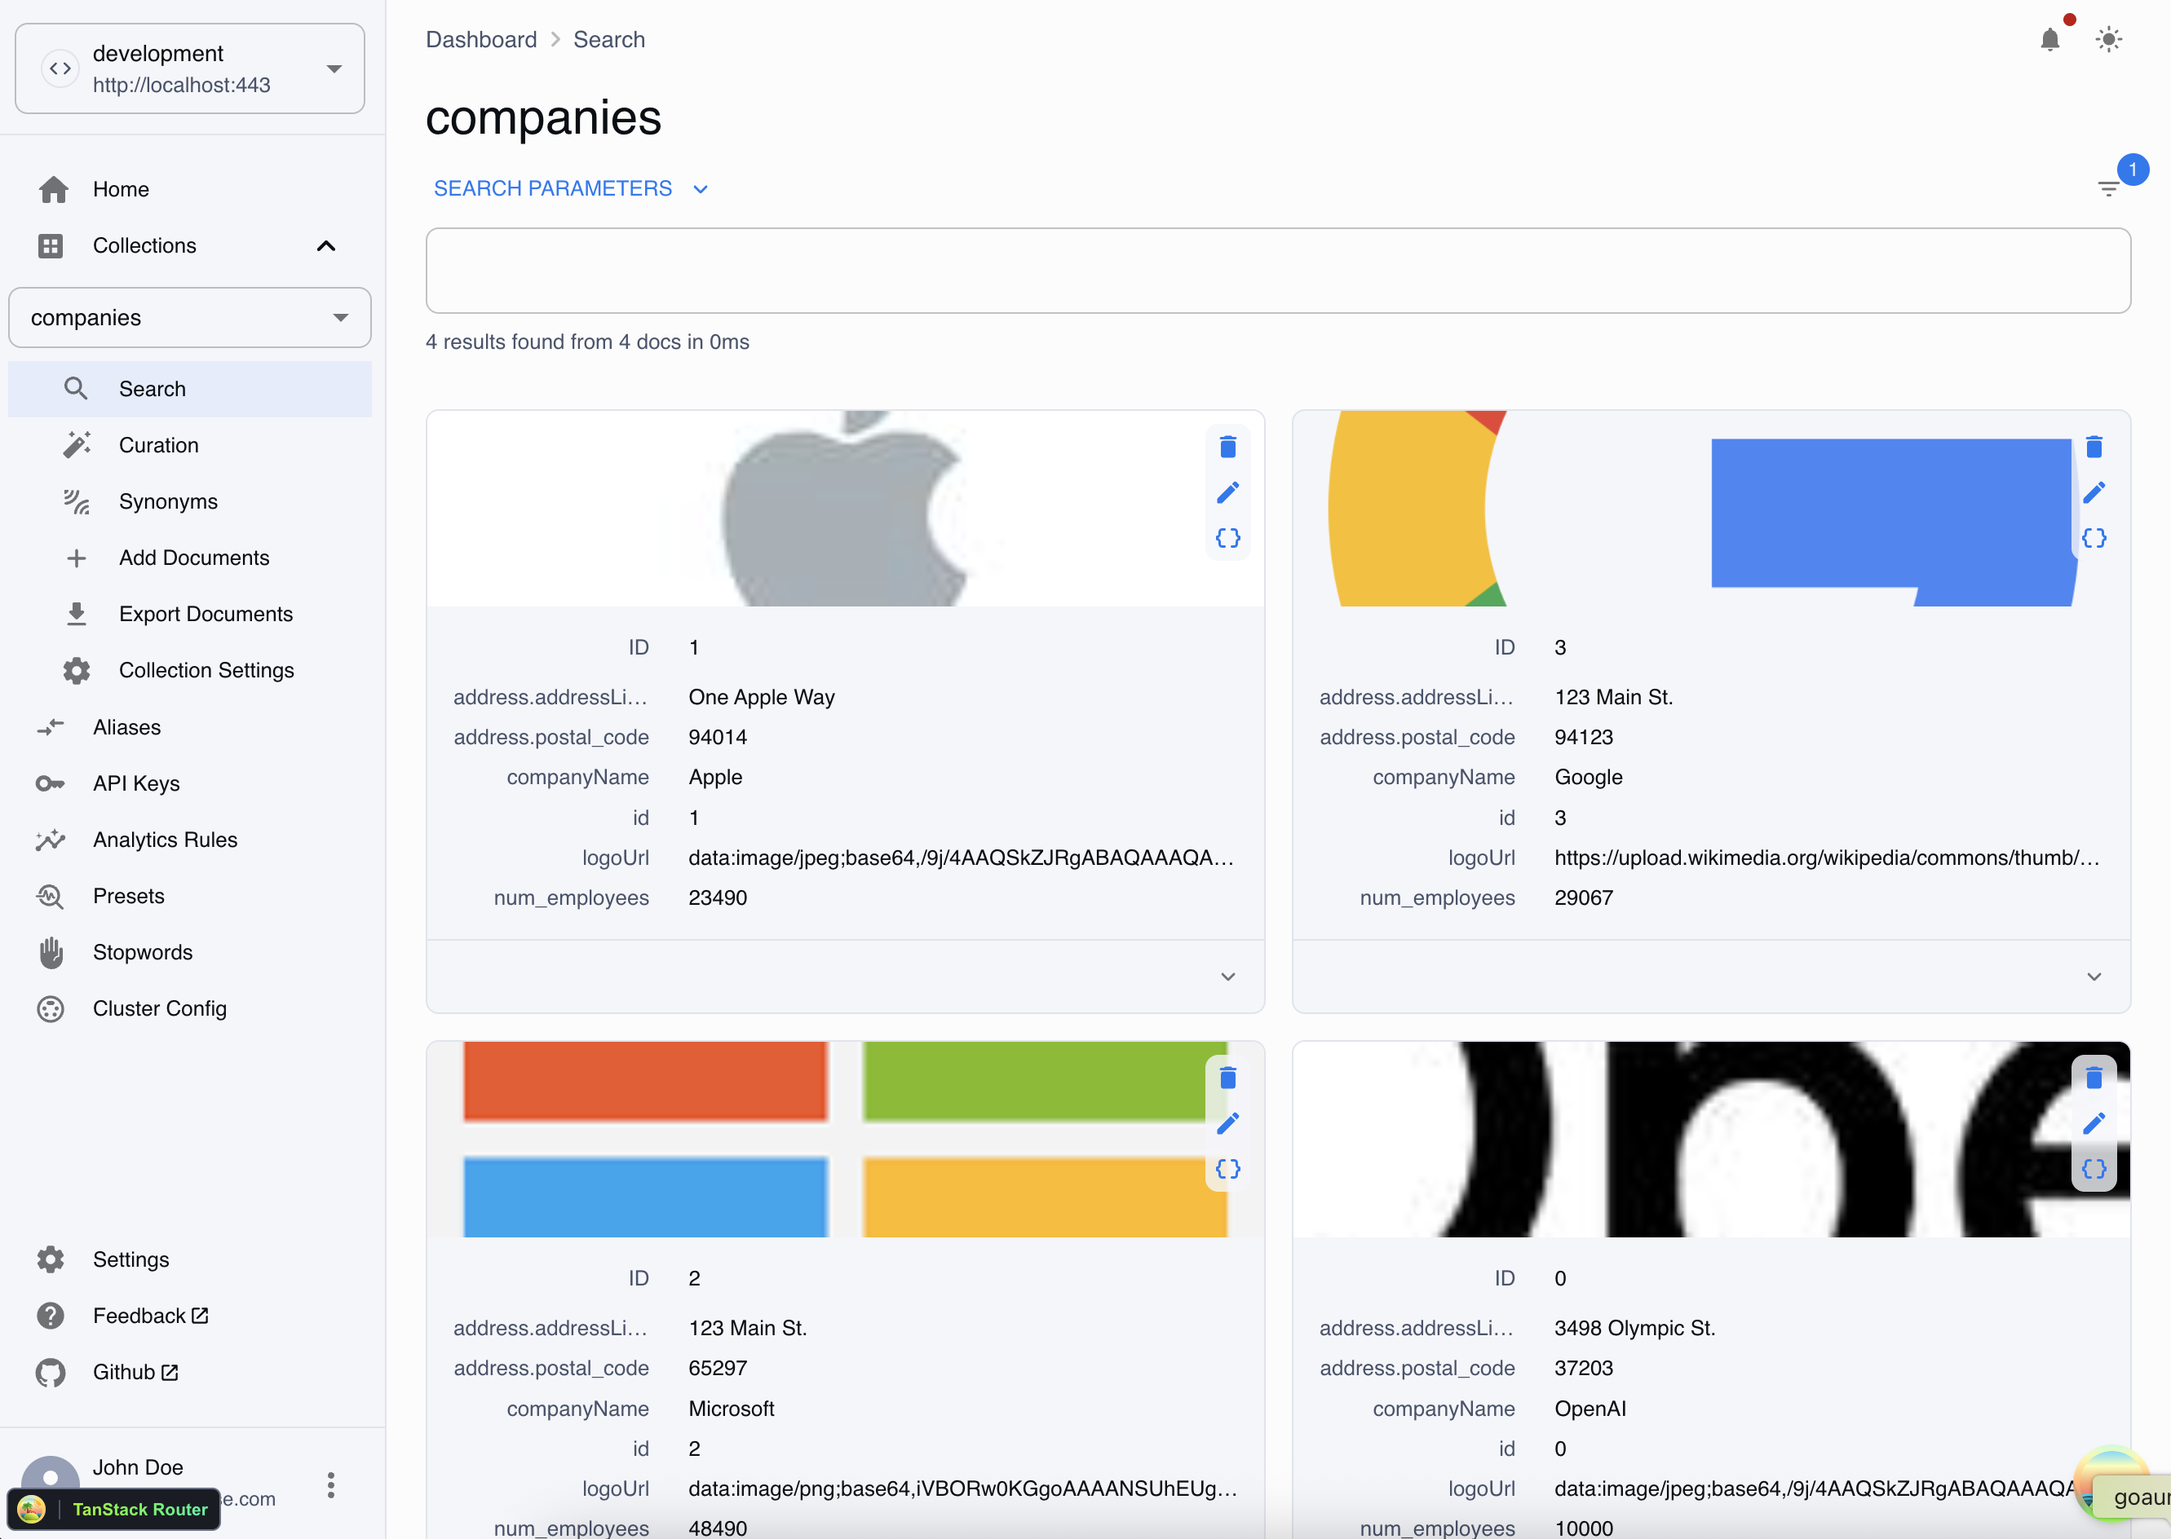
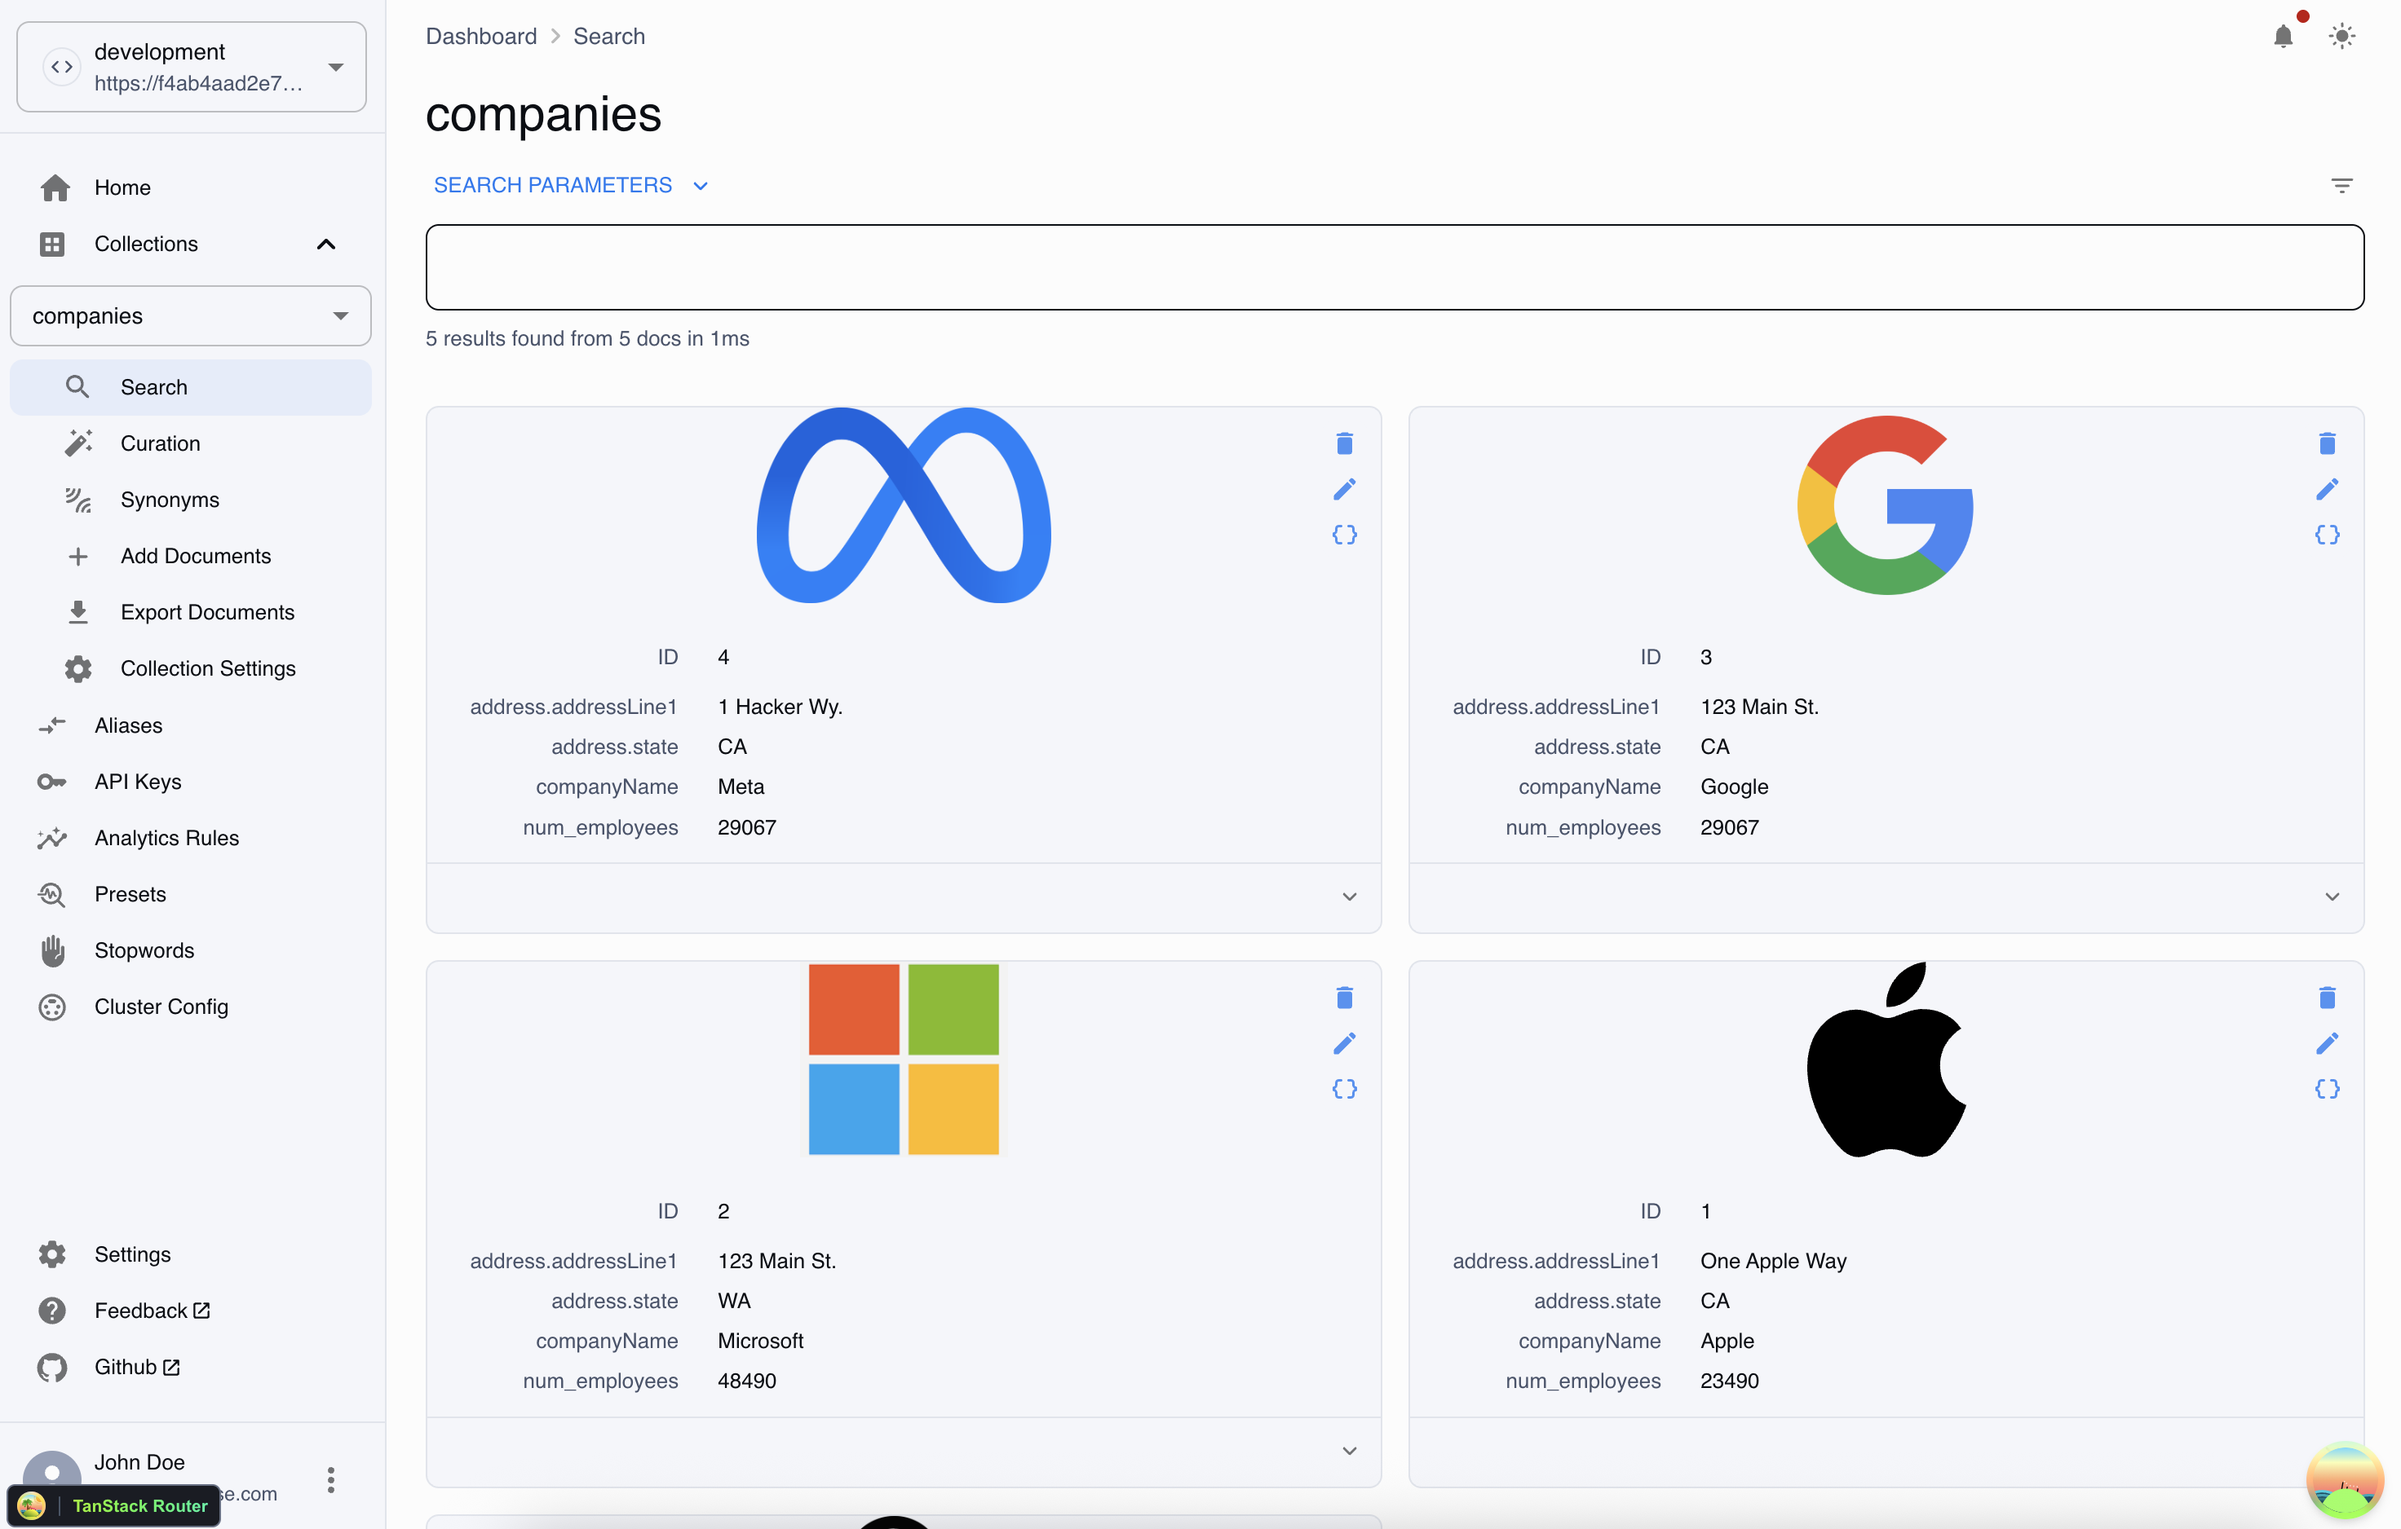
reset display fields on collection change

diff --git a/src/routes/_dashboard/collections/$collectionId/documents/search.tsx b/src/routes/_dashboard/collections/$collectionId/documents/search.tsx
@@ -32,6 +32,8 @@ import { createFileRoute } from '@tanstack/react-router';
 import { Suspense } from 'react';
 import type { DocumentSchema } from 'typesense/lib/Typesense/Documents';
 
+// TODO: reset display options when collection changes
+
 export const Route = createFileRoute(
   '/_dashboard/collections/$collectionId/documents/search'
 )({
@@ -63,7 +65,6 @@ function SearchCollection() {
         >
           <SearchSlotsProvider
             slots={{
-              // stats: undefined, // hide slot
               hits: Grid,
               hitWrapper: Grid,
             }}
@@ -81,9 +82,6 @@ function SearchCollection() {
                   backdropFilter: 'blur(8px) opacity(0.87)',
                 },
               },
-              // hitWrapper: {
-              //   size: { xs: 12, sm: 6 },
-              // },
             }}
           >
             <Stack
@@ -101,12 +99,6 @@ function SearchCollection() {
               >
                 Search Parameters
               </ButtonLink>
-              {/* TODO: move filter & sort to popover with icon buttons ?? */}
-              {/* <Box>
-                <Box sx={{ maxWidth: 200 }}>
-                  <SortBy fullWidth />
-                </Box>
-              </Box> */}
               <CtxRefinements />
             </Stack>
 
@@ -119,7 +111,6 @@ function SearchCollection() {
               <CtxSearchError />
               <ContextHits />
 
-              {/* TODO: slot for toolbar etc */}
               <Stack
                 direction={{ xs: 'column-reverse', sm: 'row' }}
                 sx={{

diff --git a/src/components/search/DashboardDisplayOptions.tsx b/src/components/search/DashboardDisplayOptions.tsx
@@ -1,5 +1,5 @@
 import { SEARCH_DEFAULT_SLOT_PROPS } from '@/constants';
-import { useCollectionSchema, useSearchSlots } from '@/hooks';
+import { useCollectionSchema, usePrevious, useSearchSlots } from '@/hooks';
 import {
   Autocomplete,
   Button,
@@ -15,7 +15,7 @@ import {
   type CSSProperties,
   type SelectChangeEvent,
 } from '@mui/material';
-import { useCallback, useMemo } from 'react';
+import { useCallback, useEffect, useMemo } from 'react';
 
 // TODO: change hits to be grid instead of stack ??
 const imgFitOptions: CSSProperties['backgroundSize'][] = [
@@ -49,9 +49,21 @@ export function DashboardDisplayOptions() {
       collectionSchema.fields
         .filter((f) => f.type === 'image')
         .map((f) => ({ title: f.name })),
-    // .map((f) => f.name),
     [collectionSchema]
   );
+
+  const prevSchemaName = usePrevious(collectionSchema?.name);
+  useEffect(() => {
+    if (prevSchemaName && prevSchemaName !== collectionSchema.name)
+      updateSlotProps(
+        {
+          hit: { displayFields: [] },
+        },
+        (_: object, srcValue: object) => {
+          if (Array.isArray(srcValue)) return srcValue;
+        }
+      );
+  }, [collectionSchema?.name]);
 
   const handleFieldsChange = useCallback((_: any, newVal: string[]) => {
     updateSlotProps(
